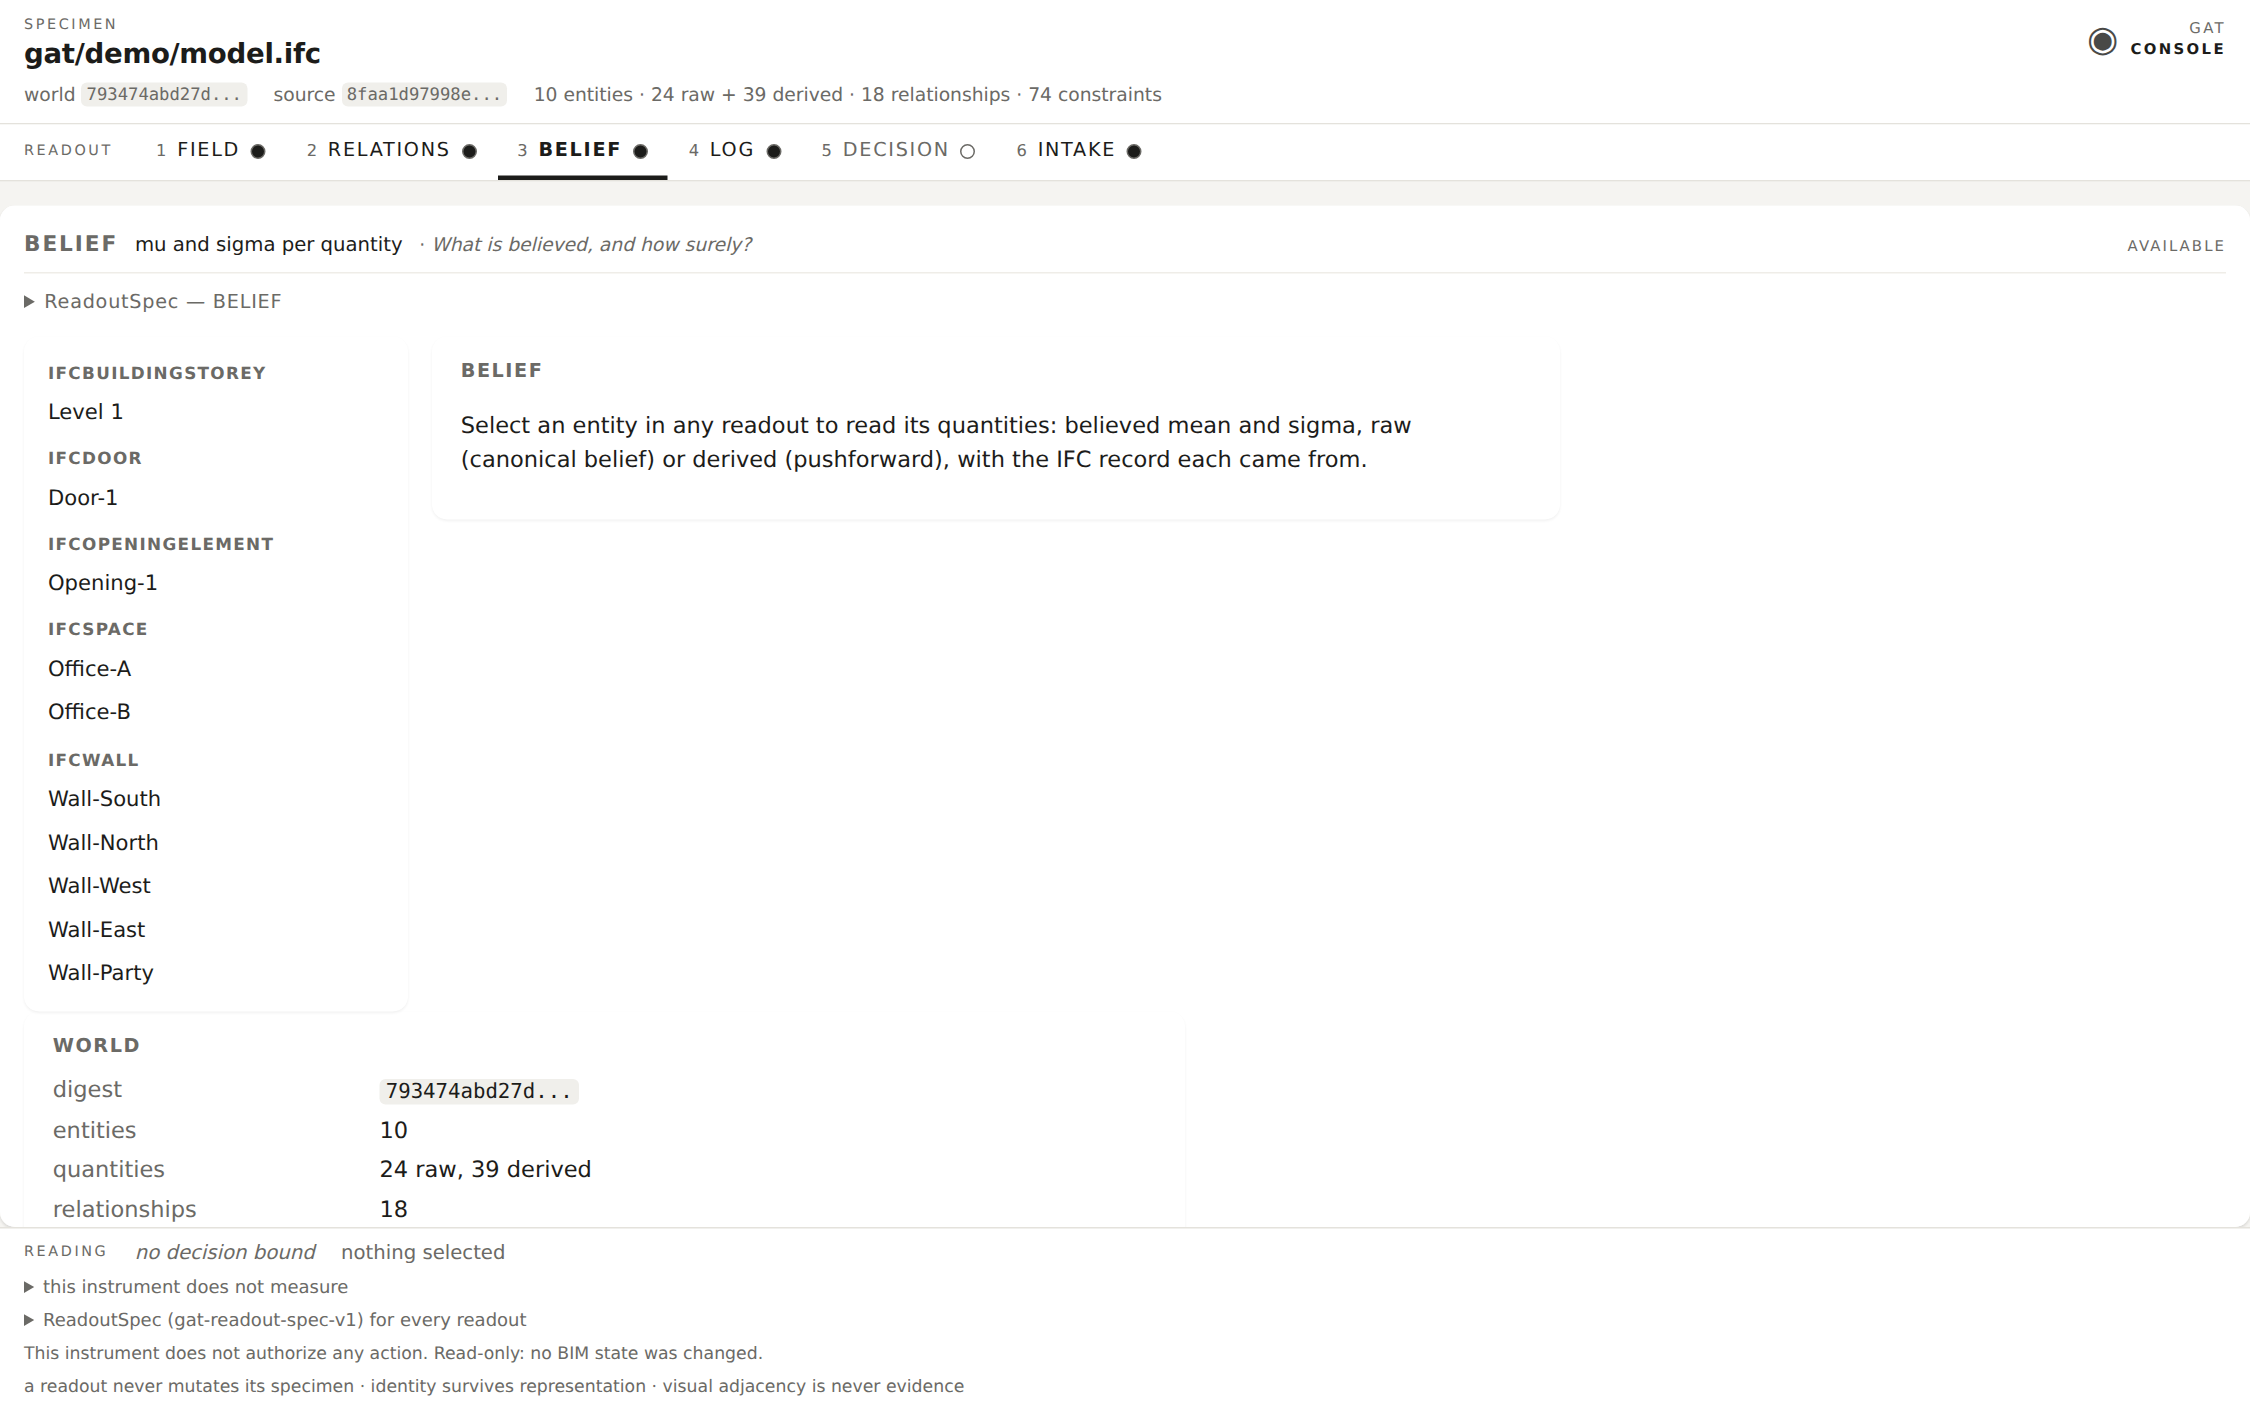
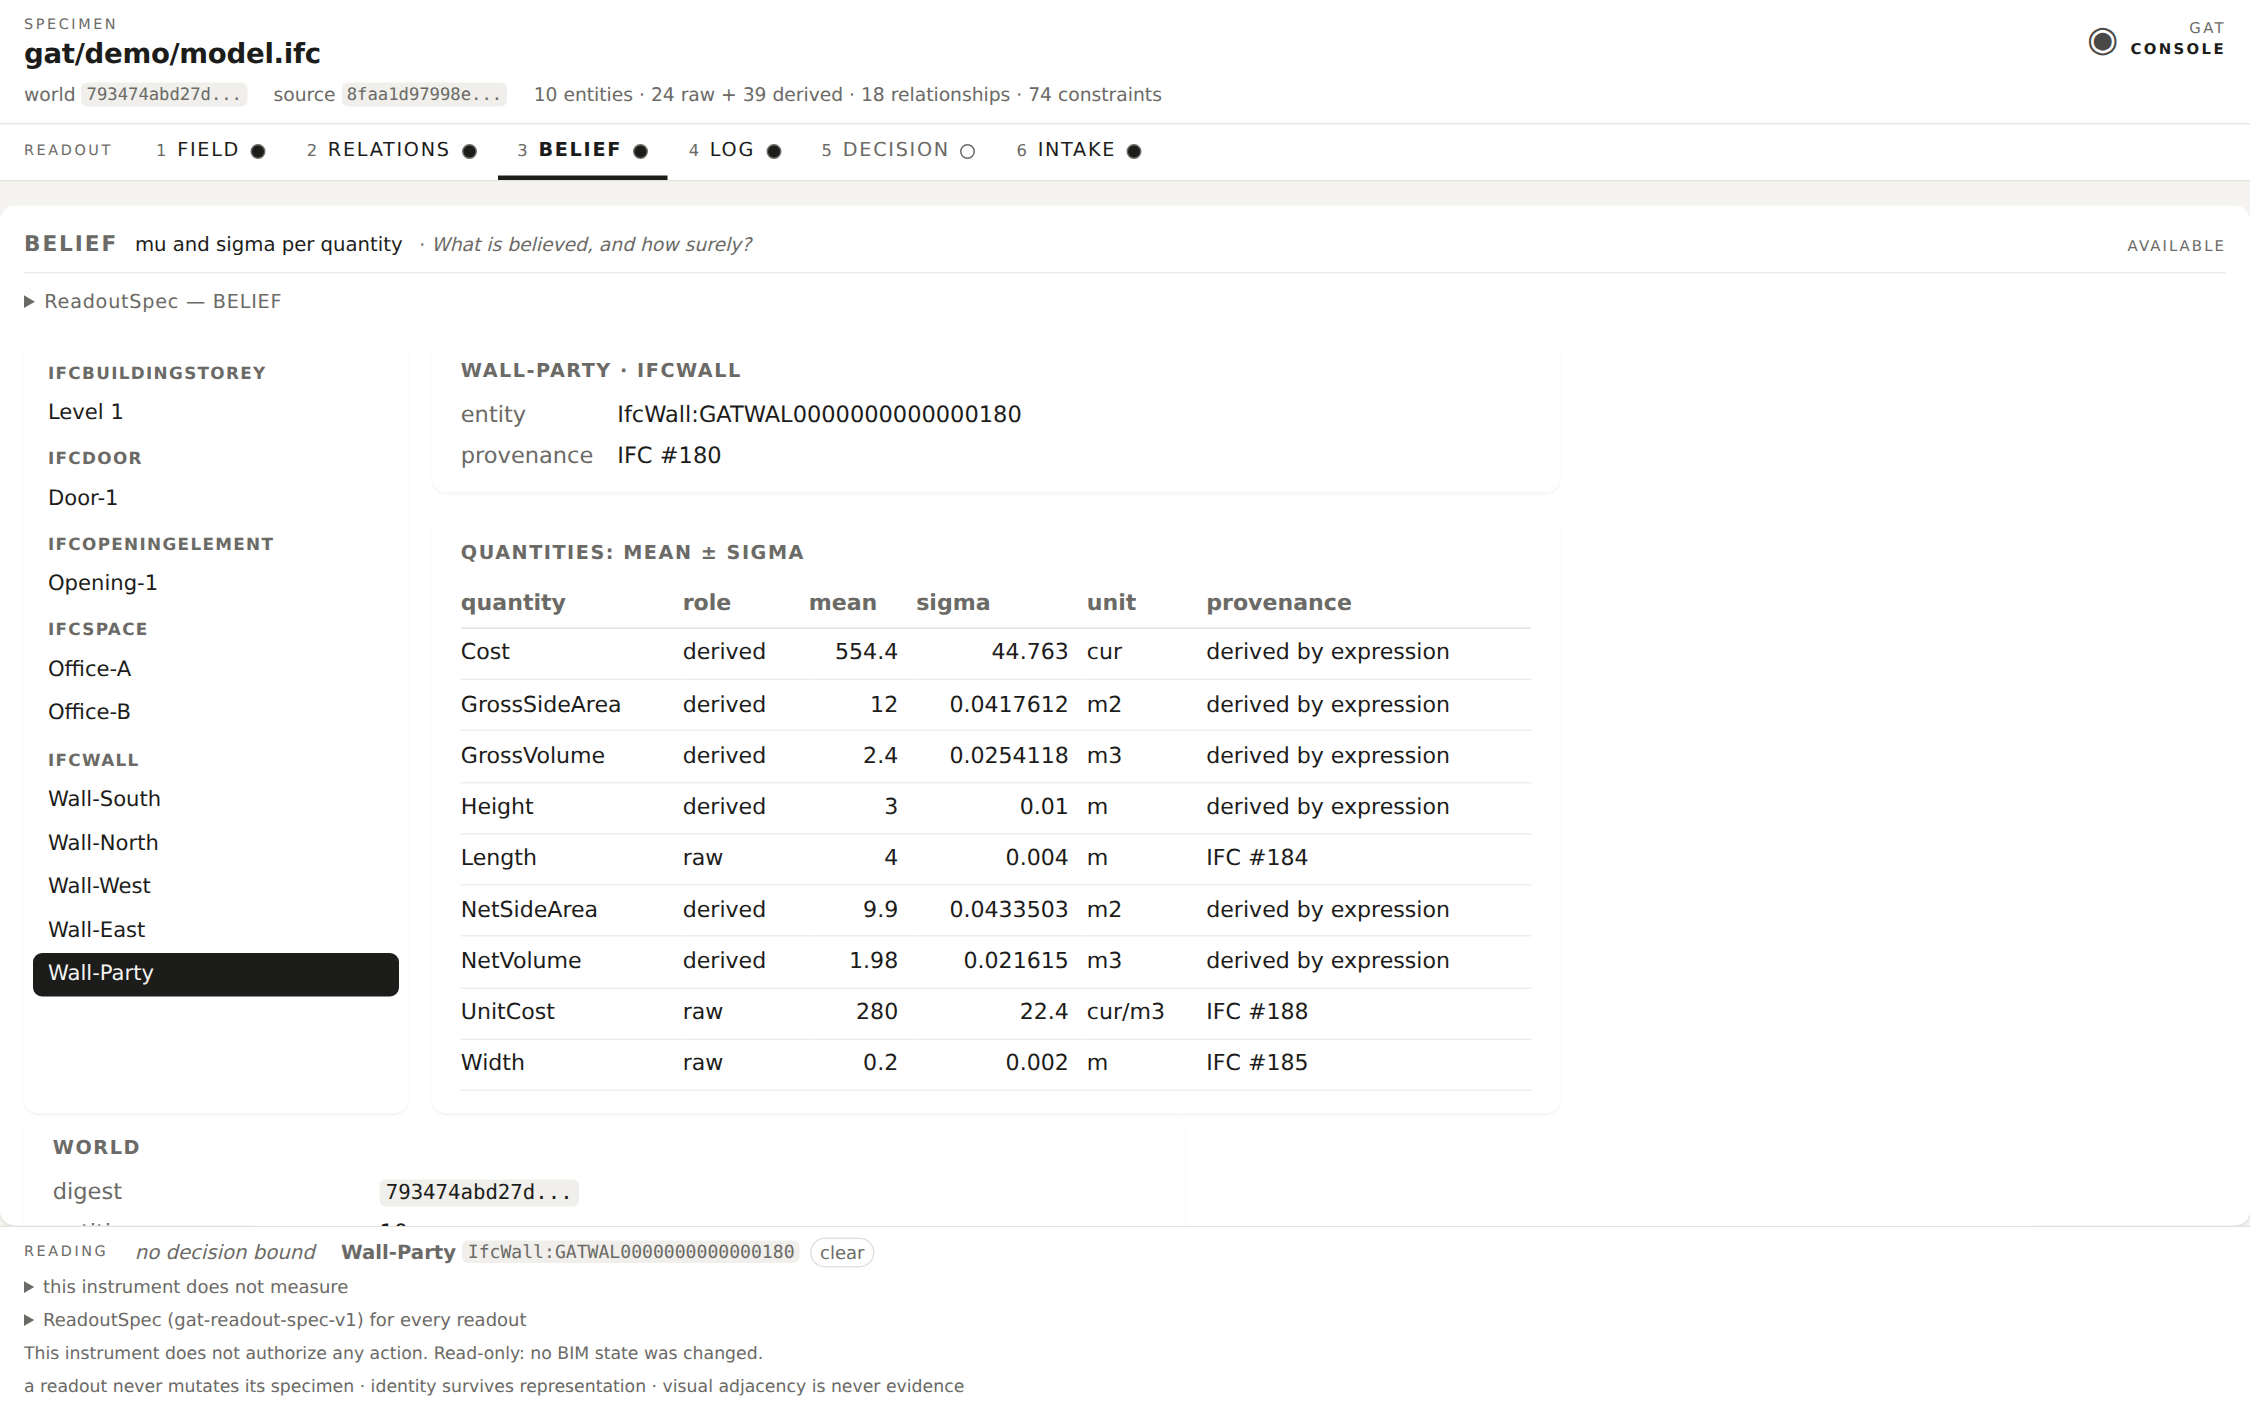
README: rebuild every image from the tool, and match the text to what they show
Follow-through on the console redesign. The screenshots are regenerated
against current HEAD, and two of them were showing the control rather than
the reading:

BELIEF was captured with nothing selected, so the image was an empty card
reading "select an entity" while the text beside it claimed to show mean and
sigma per quantity. It now selects Wall-Party first, which also puts the
identity contract on screen: the READING band names the selection by
EntityId, not by name.

FIELD was captured on the nominal, so the image was a tidy box while the
text talked about realizations of a posterior. It now clicks through to a
sample inside the sandboxed viewer frame, where the belief is visibly a
belief. The capture script grew a small click grammar for this -- "READOUT"
switches, "/x" selects in the panel, "~x" clicks inside the frame.

The `inspect` paragraph described coupling, which that screenshot does not
show. What it does show is sharper and is now what the text says: ClearHeight
has the fifth-largest sensitivity of six (+2873.6 per metre) and contributes
0.7% of the variance, because it is believed to +-10 mm, while two walls'
UnitCost carry 77.5% between them. Every one of those numbers is read back
out of `gat inspect --json` rather than off the picture -- which is how the
77.5 was caught, having first been written as 77.6 by adding two rounded
percentages.

Also in the framing: the section now names the two surface classes the
[…]

diff --git a/tests/test_surface_classes.py b/tests/test_surface_classes.py
@@ -1,0 +1,147 @@
+"""Reports are inert; instruments are self-contained. Both, enforced.
+
+``docs/design-language-v1.md`` divides every human surface into two classes,
+and the README states the division as a fact a reader can rely on:
+
+* a **report** carries no scripts and fetches nothing, so one attached to an
+  RFI or pulled out of an archive cannot change meaning or behaviour;
+* an **instrument** may carry its own inline scripts, under the same
+  isolation: one file, no network, no external resource.
+
+Both halves were already tested, but each only on its own half of the
+surfaces -- reports for scripts, instruments for URLs. A claim the README
+makes about all five belongs in one place that checks all five.
+"""
+
+from __future__ import annotations
+
+import os
+import re
+import tempfile
+import unittest
+
+import gat.demo
+from gat import ObserveQuantity
+from gat.geometry.viewer import export_viewer_html
+from gat.headless import handle_request
+from gat.ifc_audit import audit_ifc_file
+from gat.report import decode_ledger, decode_response, render_html
+from gat.session import GatSession
+from gat.workbench import export_console_html
+
+DEMO = os.path.dirname(gat.demo.__file__)
+MODEL = os.path.join(DEMO, "model.ifc")
+BEAM = os.path.join(DEMO, "beam_model.ifc")
+
+#: XML namespace URIs. These name a vocabulary and are never dereferenced, so
+#: an inline ``<svg xmlns="http://www.w3.org/2000/svg">`` is not a fetch --
+#: exempted by exact value rather than by pattern, so a real w3.org request
+#: would still be caught.
+_NAMESPACE_URIS = (
+    "http://www.w3.org/2000/svg",
+    "http://www.w3.org/1999/xlink",
+    "http://www.w3.org/1999/xhtml",
+)
+
+#: Anything that would reach outside the one file it is written to.
+_OUTBOUND = re.compile(
+    r"https?://|\bfetch\s*\(|XMLHttpRequest|WebSocket|EventSource|importScripts"
+    r"|navigator\.sendBeacon"
+)
+
+
+def _outbound(html: str) -> list[str]:
+    for uri in _NAMESPACE_URIS:
+        html = html.replace(uri, "")
+    return _OUTBOUND.findall(html)
+
+
+def _surfaces(tmp: str) -> dict[str, tuple[str, str]]:
+    """Every shipped HTML surface, as (class, document)."""
+    session = GatSession.load_ifc(MODEL)
+    session.run(ObserveQuantity.single(session.var("Office-A", "Volume"), 59.4, 0.05))
+    ledger_path = os.path.join(tmp, "ledger.json")
+    session.export_ledger(ledger_path)
+
+    response = handle_request(
+        {
+            "format": "gat-headless-request-v1",
+            "request_id": "surface-class-check",
+            "operation": "beam_assurance",
+            "state": {"kind": "ifc", "path": BEAM},
+            "payload": {
+                "case_id": "surface-class",
+                "beam_name": "Beam-B1",
+                "factored_demand_n_m": 301000.0,
+                "confidence": 0.95,
+                "material_certificate_path": os.path.join(
+                    DEMO, "material_certificate.json"
+                ),
+            },
+        }
+    )
+    console_path = os.path.join(tmp, "console.html")
+    export_console_html(session.world, console_path, model_name="model.ifc", n=2)
+    viewer_path = os.path.join(tmp, "viewer.html")
+    export_viewer_html(session.world, viewer_path, model_name="model.ifc", n=2)
+
+    def read(path: str) -> str:
+        with open(path, encoding="utf-8") as handle:
+            return handle.read()
+
+    return {
+        "gat report": ("report", render_html(decode_response(response))),
+        "gat ledger": ("report", render_html(decode_ledger(ledger_path))),
+        "gat audit --html": (
+            "report",
+            render_html(decode_response(audit_ifc_file(MODEL).to_dict())),
+        ),
+        "gat console": ("instrument", read(console_path)),
+        "gat view": ("instrument", read(viewer_path)),
+    }
+
+
+class SurfaceClassTests(unittest.TestCase):
+    @classmethod
+    def setUpClass(cls) -> None:
+        cls.tmp = tempfile.TemporaryDirectory()
+        cls.surfaces = _surfaces(cls.tmp.name)
+
+    @classmethod
+    def tearDownClass(cls) -> None:
+        cls.tmp.cleanup()
+
+    def test_every_shipped_surface_is_covered(self) -> None:
+        """A new surface must be classified here, not quietly exempt."""
+        self.assertEqual(
+            set(self.surfaces),
+            {"gat report", "gat ledger", "gat audit --html", "gat console", "gat view"},
+        )
+
+    def test_a_report_carries_no_script(self) -> None:
+        for name, (surface_class, html) in self.surfaces.items():
+            if surface_class != "report":
+                continue
+            with self.subTest(surface=name):
+                self.assertNotIn("<script", html.lower())
+
+    def test_an_instrument_carries_its_own_script(self) -> None:
+        """Stated so the class is a real division, not a lenient one."""
+        for name, (surface_class, html) in self.surfaces.items():
+            if surface_class != "instrument":
+                continue
+            with self.subTest(surface=name):
+                self.assertIn("<script", html.lower())
+
+    def test_nothing_reaches_outside_its_own_file(self) -> None:
+        """The isolation both classes share: no network, no external resource."""
+        for name, (_, html) in self.surfaces.items():
+            with self.subTest(surface=name):
+                found = _outbound(html)
+                self.assertEqual(
+                    found, [], f"{name} would reach outside the file: {found[:3]}"
+                )
+
+
+if __name__ == "__main__":
+    unittest.main()

diff --git a/docs/regenerate_images.py b/docs/regenerate_images.py
@@ -18,6 +18,7 @@ import argparse
 import html
 import json
 import os
+import re
 import subprocess
 import sys
 import tempfile
@@ -229,9 +230,14 @@ def capture(pages: dict[str, Path], chrome: str) -> None:
     shots = [
         ("term_start", "cli-inspect.png", 980, 600, True, None, 1000),
         ("term_decide", "cli-decision.png", 980, 600, True, None, 1000),
-        ("console", "console-field.png", 1500, 940, False, None, 2500),
+        # A realization, not the nominal: the point of FIELD is that the
+        # building is a belief, and a tidy nominal box does not show that.
+        ("console", "console-field.png", 1500, 940, False, "FIELD~sample 2", 2500),
         ("console", "console-relations.png", 1500, 940, False, "RELATIONS", 2500),
-        ("console", "console-belief.png", 1500, 940, False, "BELIEF", 2500),
+        # A readout screenshot must show the reading, not the prompt to take
+        # one: BELIEF with nothing selected is an empty card, and the README
+        # claims it shows mean and sigma per quantity.
+        ("console", "console-belief.png", 1500, 940, False, "BELIEF/Wall-Party", 2500),
         ("report", "report-verdict.png", 1100, 900, False, None, 1200),
         ("ledger", "ledger.png", 1100, 900, True, None, 1200),
         ("term_closed", "cli-fail-closed.png", 1020, 430, True, None, 1000),
@@ -249,10 +255,25 @@ def capture(pages: dict[str, Path], chrome: str) -> None:
             page.goto(pages[key].as_uri())
             page.wait_for_timeout(wait)
             if click:
+                # "READOUT" switches the readout; "/x" then selects x in its
+                # panel, and "~x" clicks x inside its sandboxed viewer frame.
+                match = re.fullmatch(r"([A-Z]+)(?:([/~])(.+))?", click)
+                readout, sep, target = match.group(1), match.group(2), match.group(3)
                 # The readout name appears in the panel body too; only the tab
                 # switches the instrument.
-                page.get_by_role("tab", name=click).click()
-                page.wait_for_timeout(1800)
+                page.get_by_role("tab", name=readout).click()
+                page.wait_for_timeout(1200)
+                if sep == "/":
+                    # Scope to the visible panel: entity names also appear in
+                    # the other readouts, which are hidden and unclickable.
+                    page.locator(f'.panel[data-mode="{readout}"]').get_by_text(
+                        target, exact=True
+                    ).first.click()
+                elif sep == "~":
+                    page.frame_locator("#structure").get_by_text(
+                        target, exact=True
+                    ).first.click()
+                page.wait_for_timeout(1500)
             page.screenshot(path=str(IMAGES / name), full_page=full)
             page.close()
             print(f"wrote docs/images/{name}")

diff --git a/README.md b/README.md
@@ -62,10 +62,12 @@ gat inspect gat/demo/model.ifc --var "Level 1.TotalWallCost"
 
 `audit` answers the only question worth asking first — *can GAT open this
 model at all* — without partially importing it. `inspect` shows the second
-idea: the wall cost is uncertain, and the **variance attribution** says where
-that uncertainty actually comes from. Note that `ClearHeight` contributes to
-five walls at once. That coupling is not bookkeeping; it is the covariance,
-and it is what makes a single design change propagate correctly.
+idea, and the two lists under it disagree on purpose. `ClearHeight` has a
+large **sensitivity** (+2873.6 per metre, fifth of six) and contributes 0.7%
+of the **variance**, because it is believed to ±10 mm. Two walls' `UnitCost`
+carry 77.5% of it between them. What moves the answer most is not what you
+are least sure of, and a design tool that only shows you the first one is
+pointing at the wrong thing.
 
 ## One decision, three answers
 
@@ -110,10 +112,20 @@ outcomes are the whole fail-closed stance in one command:
 
 Exit codes follow: `0` clean, `1` a finding, `2` input GAT will not accept.
 
-## The instruments
+## The instrument and its surfaces
 
-Four offline, self-contained HTML surfaces. No server, no network, no
-telemetry — each is a single file you can email to an engineer.
+Offline, self-contained HTML. No server, no network, no telemetry — each is a
+single file you can email to an engineer. They come in two classes, and the
+difference is enforced, not stylistic:
+
+- **Reports** (`gat report`, `gat ledger`, `gat audit --html`) carry no
+  scripts and fetch nothing. Interactivity is native `<details>` only, so a
+  report attached to an RFI or pulled out of an archive cannot change meaning.
+- **Instruments** (`gat console`, `gat view`) carry their own inline scripts
+  under the same isolation — one file, no network, no external resource — and
+  render state without ever mutating it.
+
+`gat console` is the instrument that holds the others against one specimen.
 
 ### `gat console` — one specimen, six readouts
 
@@ -186,10 +198,11 @@ compatible runtime reproduces the chain or refuses it.
 gat view gat/demo/model.ifc -o viewer.html --variations 3
 ```
 
-The standalone 3D viewer, with an optional `--decision` overlaid on the
-geometry it was taken about. The scene layer lowers walls, spaces, openings
-and doors; a world without them — a lone beam, say — is refused with a
-message that names what is missing rather than a numerical error.
+The same renderer the console embeds as FIELD, standalone, with an optional
+`--decision` overlaid on the geometry it was taken about. The scene layer
+lowers walls, spaces, openings and doors; a world without them — a lone beam,
+say — is refused with a message that names what is missing rather than a
+numerical error.
 
 ## Geometry authority
 
@@ -287,10 +300,18 @@ python validation/regenerate.py --check    # what CI runs
 
 A changed digest in that diff means a changed decision.
 
+The screenshots above are output too: every one is rebuilt from the running
+tool by [`docs/regenerate_images.py`](docs/regenerate_images.py), never
+edited. That is not free — regenerating them after the console redesign is
+what revealed that one image had been silently capturing the wrong readout —
+but a screenshot nobody can reproduce is an illustration, not evidence.
+
 ## Docs
 
 - [`docs/treatise.md`](docs/treatise.md) — architecture treatise
 - [`docs/geometry-authority-v1.md`](docs/geometry-authority-v1.md)
+- [`docs/design-language-v1.md`](docs/design-language-v1.md) — reports vs instruments, and the shared palette
+- [`docs/readout-spec-v1.md`](docs/readout-spec-v1.md) — the console's six readouts and what it declares it cannot measure
 - [`docs/world-identity-v2.md`](docs/world-identity-v2.md) — path-independent world digests
 - [`docs/kernel-v1.md`](docs/kernel-v1.md)
 - [`docs/sparse-belief-v1.md`](docs/sparse-belief-v1.md)
@@ -304,6 +325,12 @@ A changed digest in that diff means a changed decision.
 Not Revit, Archicad, CAD, a renderer, an LLM, a generic Gaussian package,
 FEM, IFC, or a twin platform. It is a computational layer that can sit
 between those representations and a decision.
+
+Not a geospatial or mapping platform either. No coordinate reference system,
+geodetic datum or survey epoch is lowered into the IR, so nothing here can be
+placed on a map without inventing a position — and an invented position is
+visual adjacency presented as evidence. The console declares that limit
+rather than reserving a map view for it.
 
 Repository: [giasonpooni/Gaussian-Architectural-Transformer-for-BIM](https://github.com/giasonpooni/Gaussian-Architectural-Transformer-for-BIM).
 Engine name is GAT; package is `gat-bim`. The repository was previously
